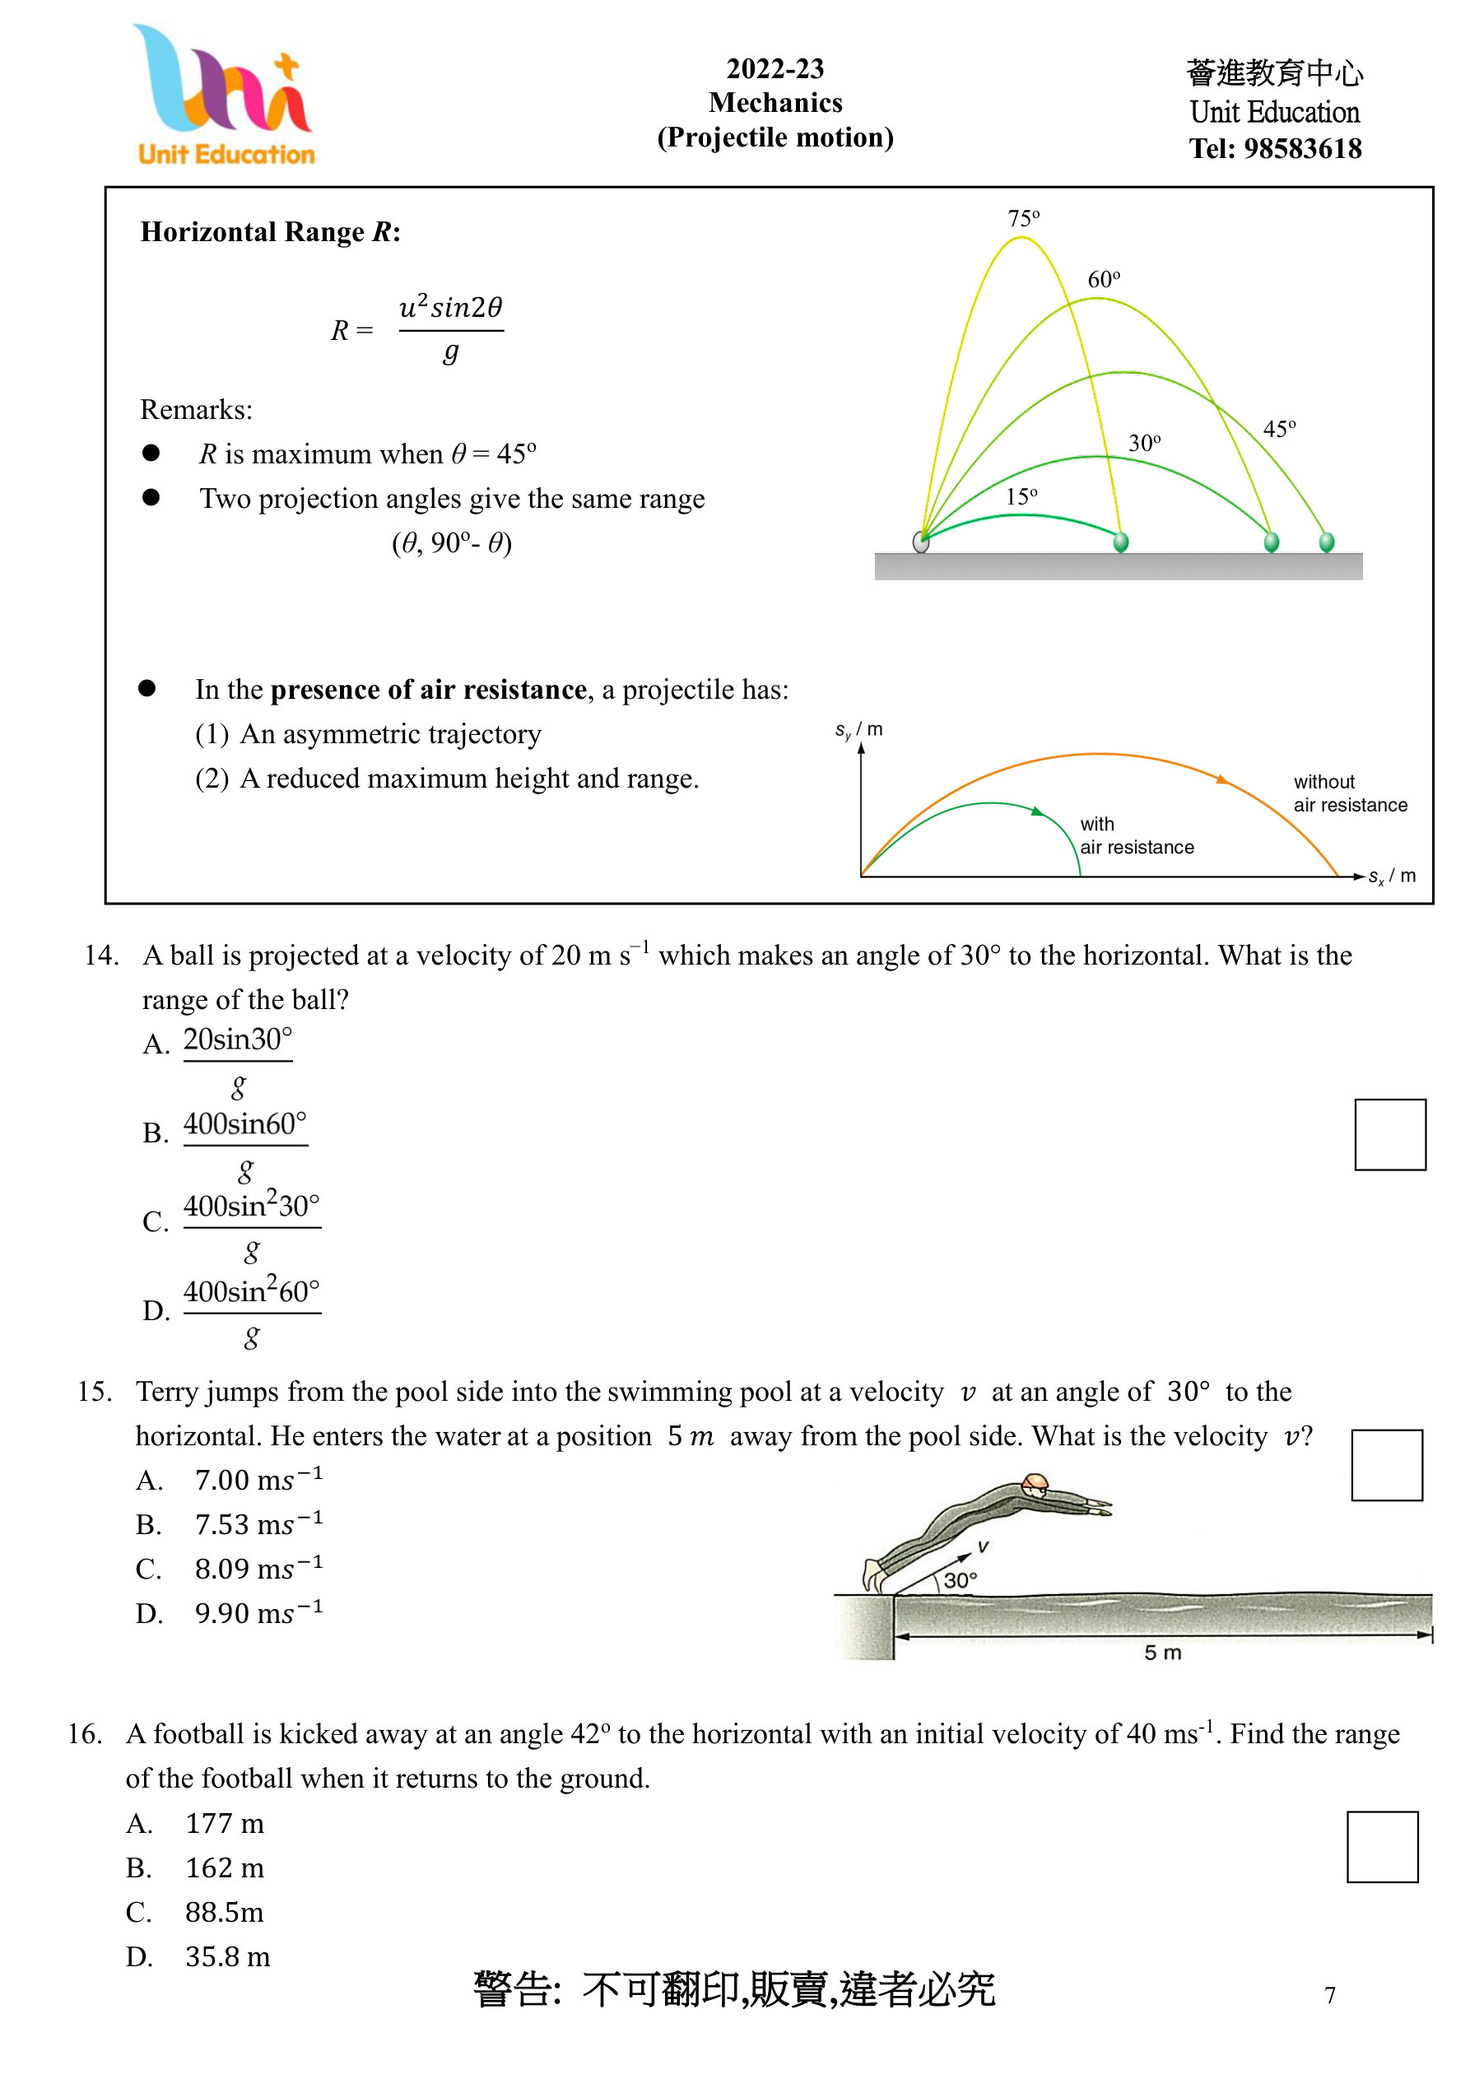
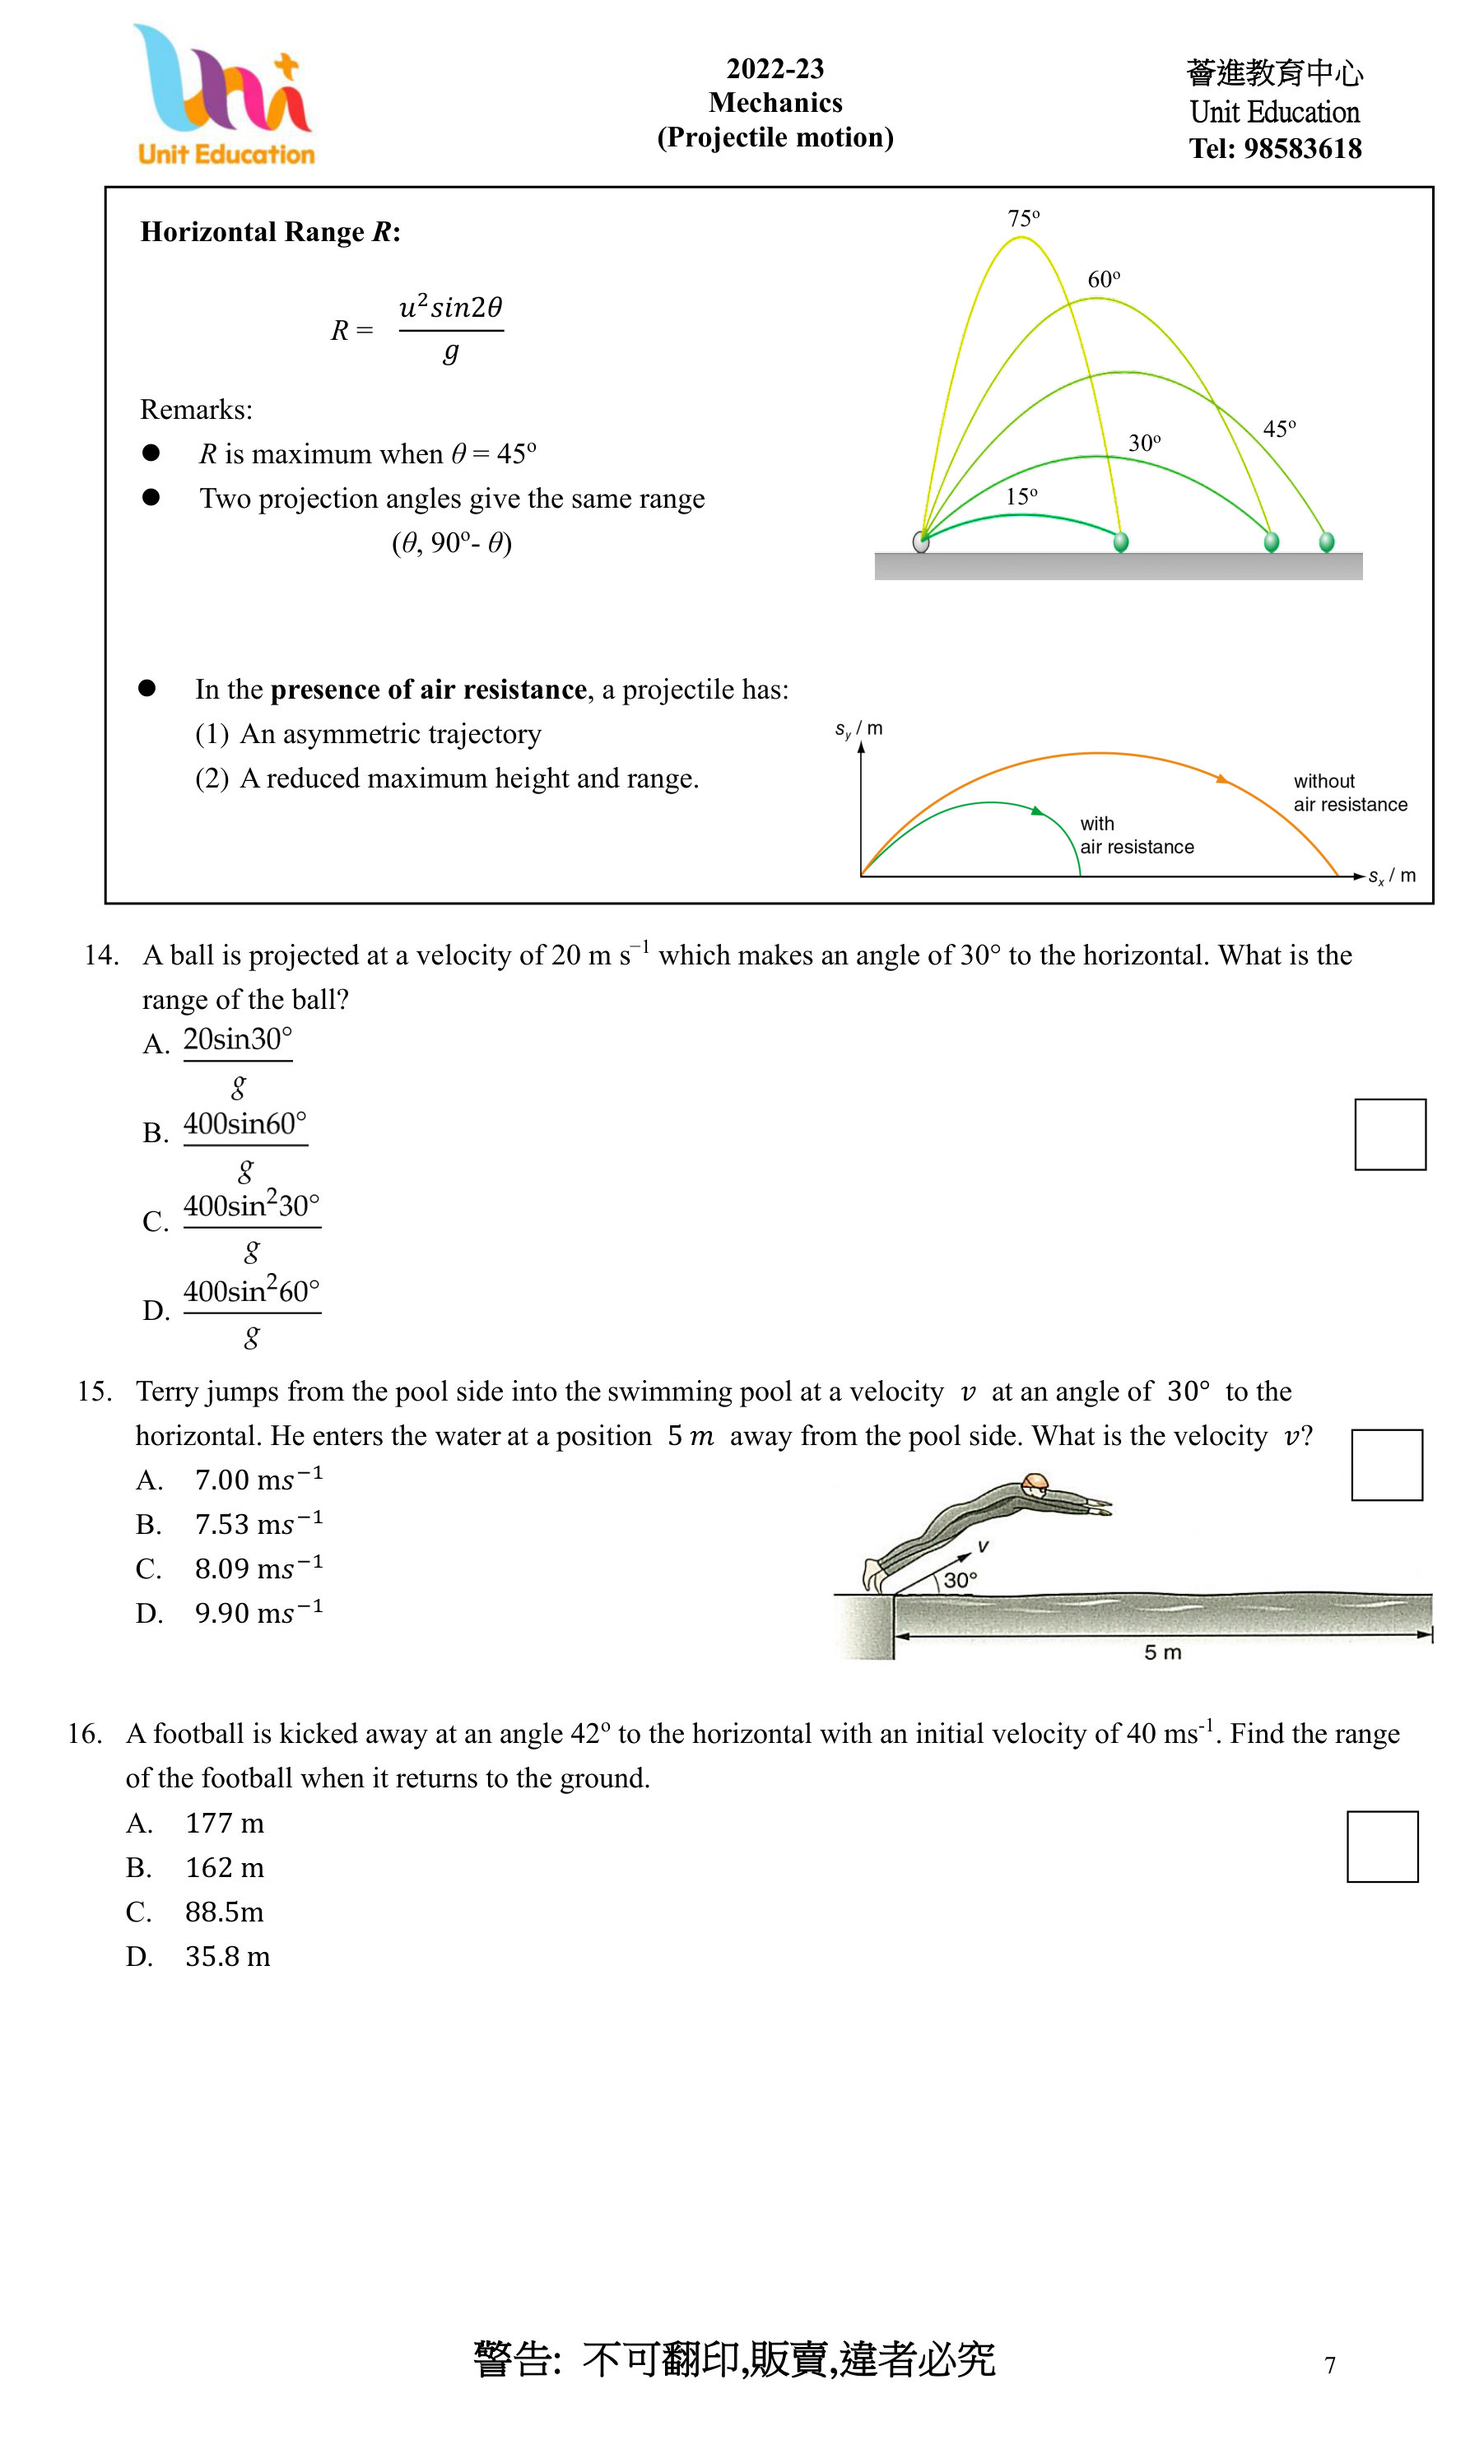
phy11: p7 opened to 992pt with a real answer band (q16), engine per-page height

diff --git a/engine/viewer/answers.js b/engine/viewer/answers.js
@@ -965,14 +965,19 @@ const BLANK = new Map();
 /** Page image pixels at 1px per point, so a figure's left edge can be found. */
 const PIXELS = new WeakMap();
 
-function pagePixels(img) {
-  if (PIXELS.has(img)) return PIXELS.get(img);
+/** Height in page points of a page image: A4, unless the PDF page was opened up. */
+function pageHeightOf(img) {
+  if (!img || !img.naturalWidth) return PAGE_H;
+  return Math.round(PAGE_W * (img.naturalHeight / img.naturalWidth));
+}
+
+function pagePixels(img) {  if (PIXELS.has(img)) return PIXELS.get(img);
   if (!img.complete || !img.naturalWidth) {
     img.addEventListener("load", () => rowsReady?.(), { once: true });
     return null;
   }
   const w = Math.round(PAGE_W);
-  const h = Math.round(PAGE_H);
+  const h = Math.round(pageHeightOf(img));
   const canvas = document.createElement("canvas");
   canvas.width = w;
   canvas.height = h;
@@ -998,7 +1003,7 @@ function figureLeft(qa, y0, y1, xFrom) {
   const data = img && pagePixels(img);
   if (!data) return null;
   const w = Math.round(PAGE_W);
-  const h = Math.round(PAGE_H);
+  const h = Math.round(pageHeightOf(img));
   const top = Math.max(0, Math.floor(y0));
   const bot = Math.min(h - 1, Math.ceil(y1));
   const from = Math.max(0, Math.floor(xFrom));
@@ -1025,7 +1030,7 @@ function blankRows(img) {
     return null;
   }
   const w = Math.round(PAGE_W);
-  const h = Math.round(PAGE_H);
+  const h = Math.round(pageHeightOf(img));
   const canvas = document.createElement("canvas");
   canvas.width = w;
   canvas.height = h;
@@ -1075,6 +1080,9 @@ function cutFor(rows, y0, y1) {
  * back at 100%.
  */
 function growSheet(sheet, page) {
+  // A page may be taller than A4 when its source PDF was opened up to make room
+  // for an answer (tools/relayout_pdf.py); slicing must use that page's own height.
+  const pageH = page.height || PAGE_H;
   const img = sheet.querySelector("img.bg");
   const cuts = [];
   let grown = false;
@@ -1097,7 +1105,7 @@ function growSheet(sheet, page) {
   const shift = (y) => merged.reduce((s, c) => (y >= c.y ? s + c.d : s), 0);
   sheet.shiftY = merged.length ? (y) => y + shift(y) : null;
   sheet.classList.toggle("grown", grown);
-  sheet.style.height = `${PAGE_H + merged.reduce((s, c) => s + c.d, 0)}px`;
+  sheet.style.height = `${pageH + merged.reduce((s, c) => s + c.d, 0)}px`;
   for (const el of sheet.querySelector(".overlay").children) {
     if (el.classList.contains("rev")) continue;
     if (!("y" in el.dataset)) el.dataset.y = parseFloat(el.style.top) || 0;
@@ -1110,7 +1118,7 @@ function growSheet(sheet, page) {
   let from = 0;
   let off = 0;
   let after = img;
-  for (const c of [...merged, { y: PAGE_H, d: 0 }]) {
+  for (const c of [...merged, { y: pageH, d: 0 }]) {
     const slice = document.createElement("div");
     slice.className = "bg-slice";
     slice.dataset.from = from;
@@ -1121,6 +1129,10 @@ function growSheet(sheet, page) {
     part.alt = "";
     part.draggable = false;
     part.style.top = `${-from}px`;
+    // The slice is a window onto the whole page: the image keeps the page's own
+    // height (a page opened up by relayout_pdf.py is taller than A4), then slides
+    // up by `from` so the band shows at the right place.
+    part.style.height = `${pageH}px`;
     slice.append(part);
     after.after(slice);
     after = slice;

diff --git a/engine/viewer/app.js b/engine/viewer/app.js
@@ -209,7 +209,7 @@ function pageBackground(src) {
 function buildPages() {
   world.replaceChildren();
   for (const page of state.layout.pages) {
-    const sheet = makeSheet(`p${page.page}`, page.page, pageImage(page.page));
+    const sheet = makeSheet(`p${page.page}`, page.page, pageImage(page.page), page.height || PAGE_H);
     const overlay = document.createElement("div");
     overlay.className = "overlay";
     buildOverlay(page, overlay);
